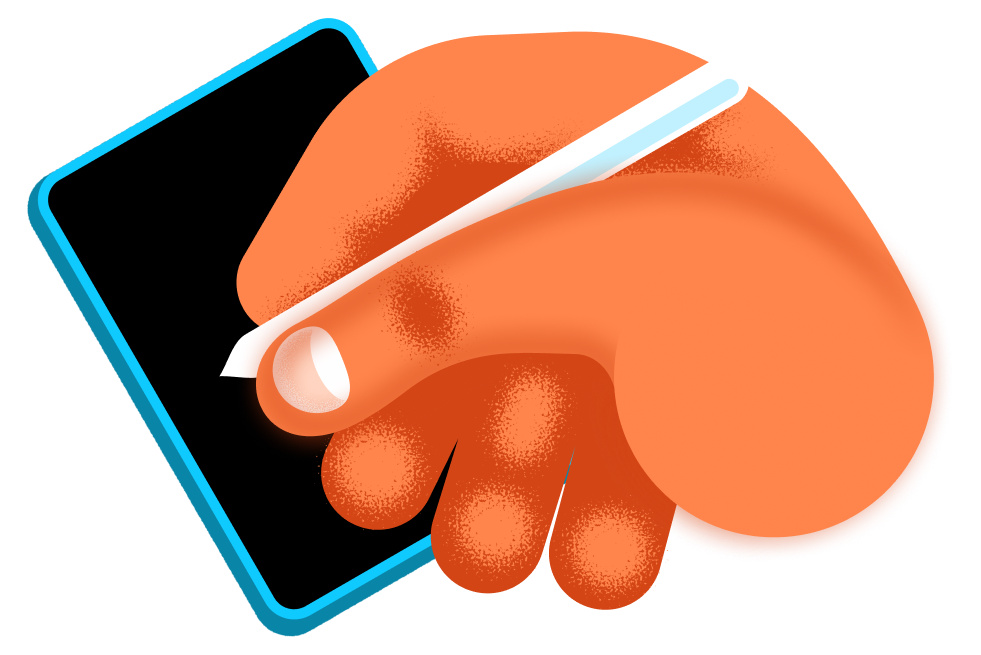
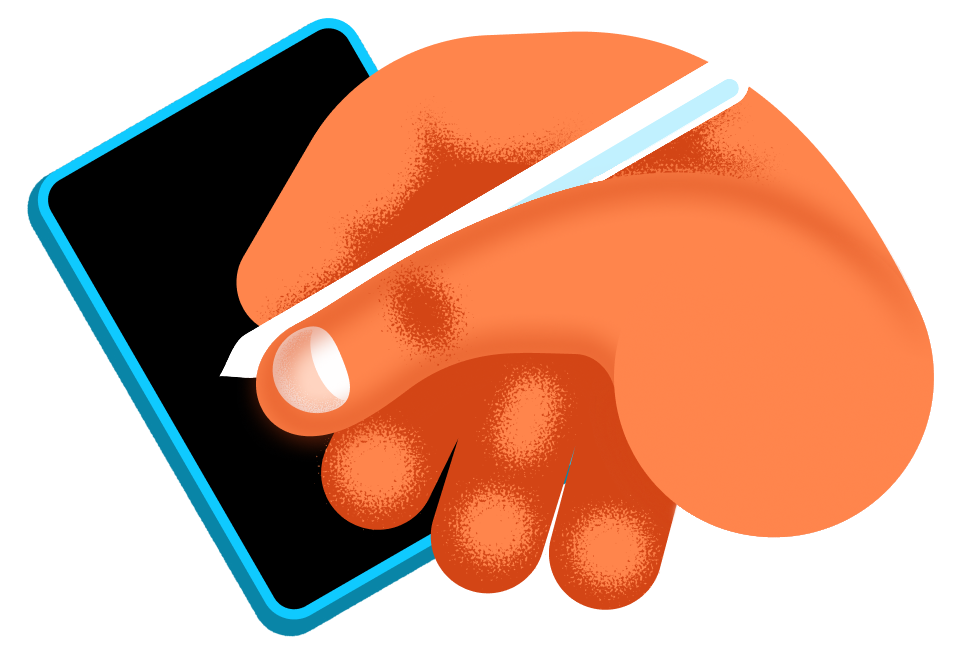
fix(work): swap in updated iPad illustration

diff --git a/app/work/page.tsx b/app/work/page.tsx
@@ -16,7 +16,7 @@ export const metadata: Metadata = {
  *  surface. Order is the order they land in the row, left to right. */
 const ILLUSTRATIONS = [
   { src: "/illustrations/twingo-green-final.png", aspect: "1350/656", height: 115 },
-  { src: "/illustrations/ipad.png", aspect: "981/655", height: 115 },
+  { src: "/illustrations/ipad.png", aspect: "961/655", height: 115 },
 ];
 
 export default function WorkPage() {
